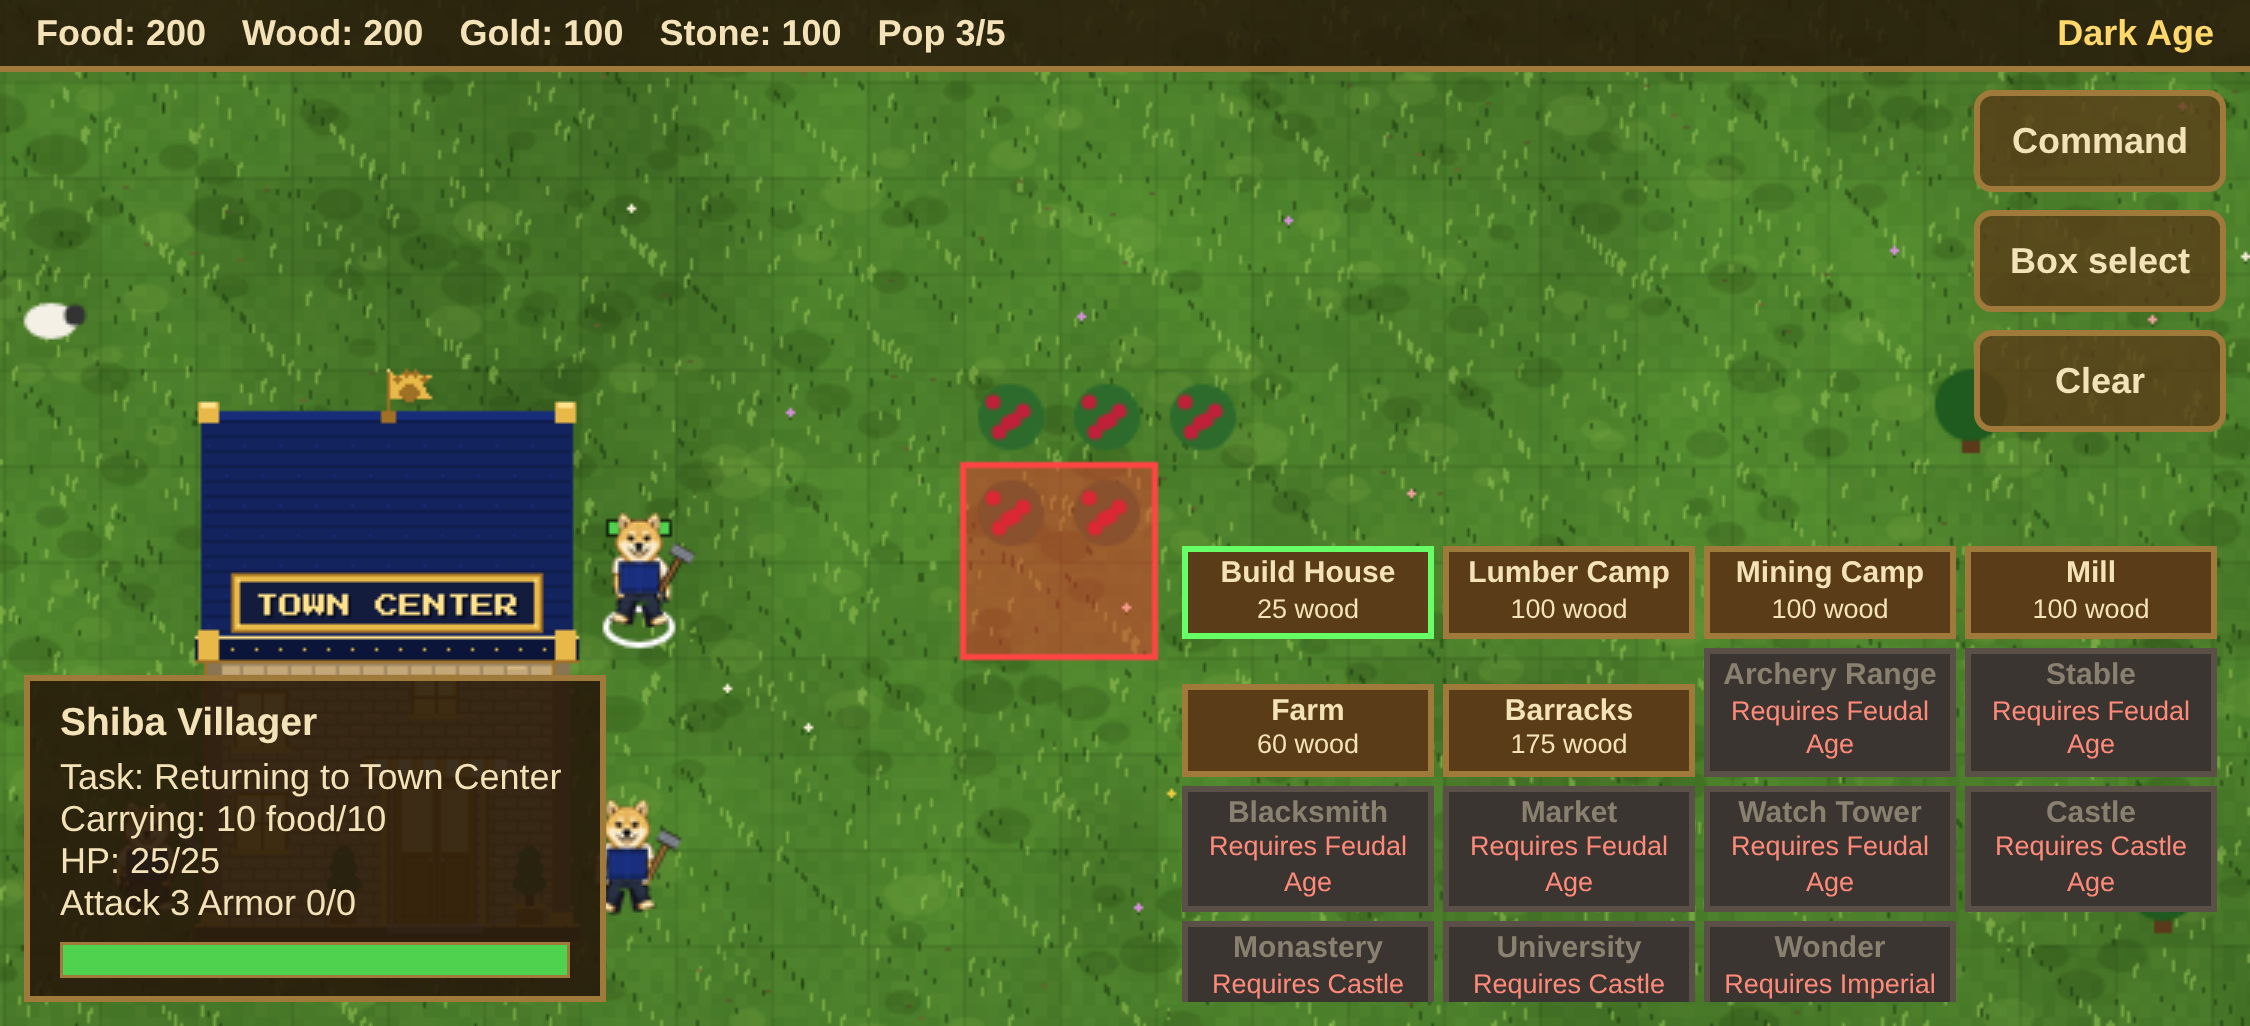
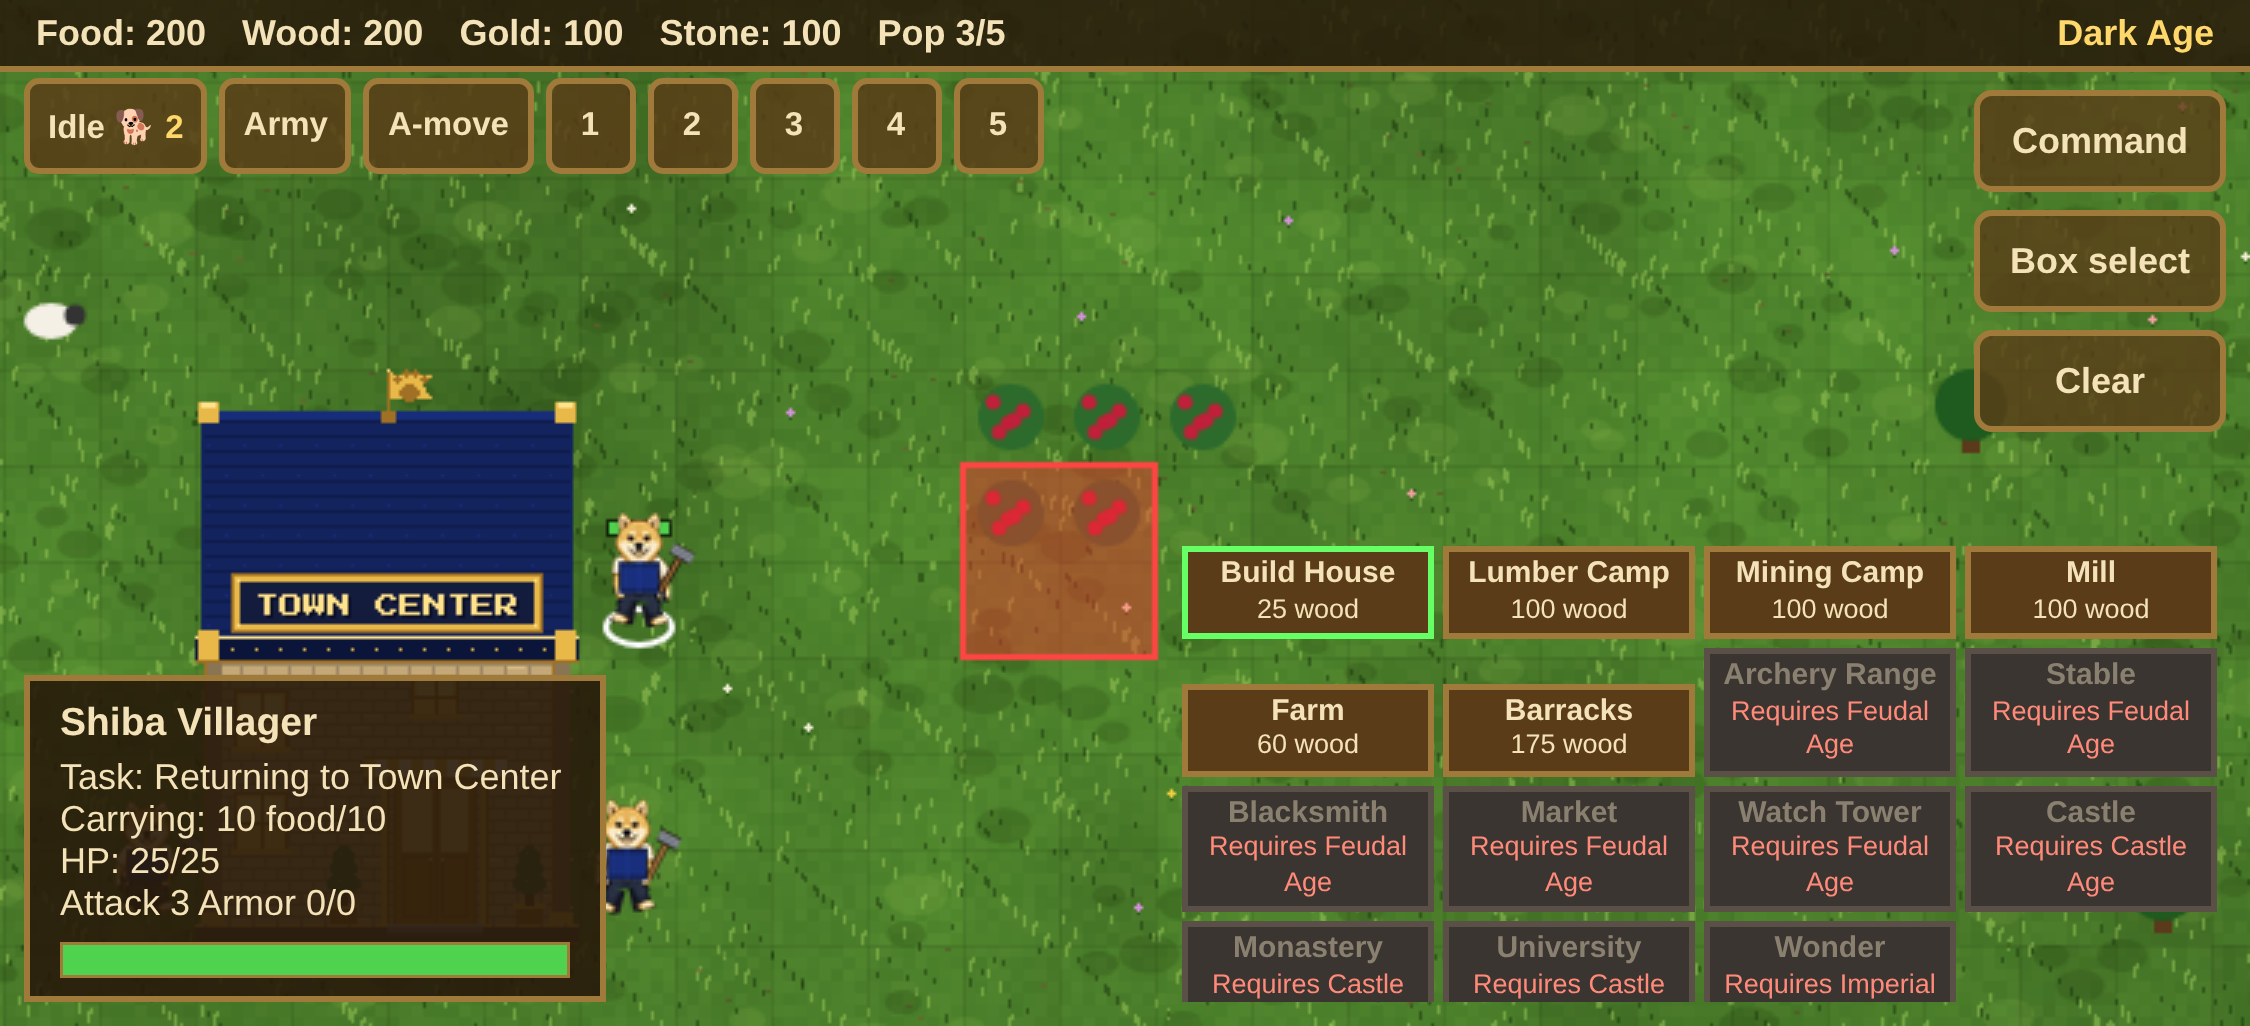
Unit handling: double-click/tap selects same type on screen, idle-villager cycle (count), all-army, control groups (Ctrl+1-9 / 1-9; touch slots long-press save, tap recall), formation moves at slowest member's speed, smart drop-off, attack-move (Q / A-move), shift-queue waypoints; all via the lockst

Changed region(s): [[0.0, 0.0624, 0.4667, 0.1871]]

diff --git a/src/main.js b/src/main.js
@@ -17,7 +17,11 @@ let mouse = { x: -1, y: -1, inside: false }, drag = null;
 let Z = 1; // touch pinch zoom: the canvas backing store is viewport/Z and CSS-stretched to the viewport (desktop Z=1: unchanged)
 function resize() { canvas.width = Math.round(innerWidth / Z); canvas.height = Math.round(innerHeight / Z); canvas.style.width = innerWidth + 'px'; canvas.style.height = innerHeight + 'px'; if (world) clampCamera(cam, canvas.width, canvas.height, world); } resize(); addEventListener('resize', resize);
 addEventListener('blur', () => { keys.clear(); drag = null; });   // no stuck pan keys after alt-tab
-addEventListener('keydown', e => { if (e.target.tagName === 'INPUT') return; keys.add(e.key.toLowerCase()); if (e.key === 'Escape') cancelPlacing(ui); });
+addEventListener('keydown', e => { if (e.target.tagName === 'INPUT') return;
+  if (world && /^Digit[1-9]$/.test(e.code)) { const n = +e.code.slice(5); if (e.ctrlKey || e.metaKey) { e.preventDefault(); saveGroup(n); } else recallGroup(n); return; }
+  if (world && e.key.toLowerCase() === 'q') { qb.amove = !qb.amove; syncQb(); return; }
+  if (world && e.key === '.') { idleVillager(); return; } if (world && e.key === ',') { selectArmy(); return; }
+  keys.add(e.key.toLowerCase()); if (e.key === 'Escape') { cancelPlacing(ui); qb.amove = false; syncQb(); } });
 addEventListener('keyup', e => keys.delete(e.key.toLowerCase()));
 canvas.addEventListener('contextmenu', e => e.preventDefault());
 const toWorld = (sx, sy) => screenToWorld(sx / Z, sy / Z, cam);
@@ -47,19 +51,22 @@ canvas.addEventListener('mouseleave', () => { mouse.inside = false; drag = null;
 canvas.addEventListener('mousedown', e => {
   if (!world) return; const p = toWorld(e.clientX, e.clientY);
   if (e.button === 1) { drag = { x: e.clientX, y: e.clientY, cx: cam.x, cy: cam.y }; e.preventDefault(); return; }
+  if (e.button === 0 && qb.amove && !ui.placing) { rightClick(p.x, p.y, { queue: e.shiftKey }); qb.skipUp = true; return; }
   if (e.button === 0) { pointerDown(ui, e.clientX, e.clientY); return; }
-  if (e.button === 2) { if (ui.placing) { cancelPlacing(ui); return; } rightClick(p.x, p.y); }
+  if (e.button === 2) { if (ui.placing) { cancelPlacing(ui); return; } rightClick(p.x, p.y, { queue: e.shiftKey }); }
 });
-function rightClick(x, y) {
+function rightClick(x, y, mods = {}) {
+  const amove = qb.amove || !!mods.amove, queue = !!mods.queue; if (qb.amove) { qb.amove = false; syncQb(); }
   const b = selectedBuilding(world);
   if (b) { if (!isFoe(b) && b.trains.length && b.complete) { issue('rally', { id: b.id, x, y }); } return; }
   const us = selectedUnits(world); if (!us.length) return;
-  issue('order', { ids: us.map(u => u.id), x, y });
+  issue('order', { ids: us.map(u => u.id), x, y, ...(amove ? { amove: true } : {}), ...(queue ? { queue: true } : {}) });
   if (net) world.lastOrder = { kind: hoverEnemy() ? 'attack' : 'move', x, y, t: world.time };   // instant local feedback
 }
 addEventListener('mouseup', e => {
   if (e.button === 1) drag = null;
-  if (e.button === 0 && world) { const r = pointerUp(ui, world, toWorld, issue);
+  if (e.button === 0 && qb.skipUp) { qb.skipUp = false; return; }
+  if (e.button === 0 && world) { const r = pointerUp(ui, world, toWorld, issue); if (r && r.kind === 'select') dblSelect(e.clientX, e.clientY);
     const s = world.selection; // fog: cannot select what you cannot see
     if (r && r.kind === 'select' && s && (s.kind === 'unit' || s.kind === 'building')) { const o = s.kind === 'unit' ? SIM.mobile(world, s.id) : world.buildings.find(q => q.id === s.id); if (o && !seen(o)) { world.selection = null; world.selected = null; } } }
 });
@@ -97,14 +104,46 @@ const touchEnd = e => { e.preventDefault(); if (!world || !tp) return;
   if (g.done) return;
   if (ui.placing) { if (g.moved && Math.hypot(x - g.x, y - g.y) > 10) { mouse = { x, y, inside: false }; refreshGhost(); } pointerDown(ui, x, y); pointerUp(ui, world, toWorld, issue); return; }
   if (g.moved) return;
-  if (touchUi.command) { touchCommand(x, y); return; }
-  pointerDown(ui, x, y); const r = pointerUp(ui, world, toWorld, issue); const s = world.selection;
+ 
+  if (touchUi.command || qb.amove) { touchCommand(x, y); return; }
+  pointerDown(ui, x, y); const r = pointerUp(ui, world, toWorld, issue); if (r && r.kind === "select") dblSelect(x, y); const s = world.selection;
   if (r && r.kind === 'select' && s && (s.kind === 'unit' || s.kind === 'building')) { const o = s.kind === 'unit' ? SIM.mobile(world, s.id) : world.buildings.find(q => q.id === s.id); if (o && !seen(o)) { world.selection = null; world.selected = null; } }
 };
 canvas.addEventListener('touchend', touchEnd, { passive: false }); canvas.addEventListener('touchcancel', e => { clearTimeout(tp?.lp); tp = null; ui.press = null; ui.box = null; e.preventDefault(); }, { passive: false });
 for (const t of ['gesturestart', 'dblclick']) document.addEventListener(t, e => e.preventDefault());
 const orient = () => { document.documentElement.dataset.orient = innerWidth >= innerHeight ? 'landscape' : 'portrait'; scrollTo(0, 0); };
 addEventListener('resize', orient); addEventListener('orientationchange', () => setTimeout(() => { resize(); orient(); }, 100)); orient();
+// ---- quick selection: double-click/tap same type on screen, idle villager cycle, all army, control groups, attack-move ----
+const qb = { amove: false, skipUp: false, groups: {}, idleIdx: 0 }; let lastSel = { t: 0, type: null, id: null };
+const qbEl = $('quickbar');
+const onScreen = u => { const q = worldToScreen(u.x, u.y, cam); return q.x >= 0 && q.y >= 0 && q.x <= canvas.width && q.y <= canvas.height; };
+const mineU = () => world.units.filter(u => u.owner === viewer());
+function dblSelect(x, y) { const s = world.selection, now = performance.now();
+  if (!s || s.kind !== 'unit') { lastSel = { t: 0 }; return; } const u = SIM.mobile(world, s.id); if (!u || u.owner !== viewer()) return;
+  if (now - lastSel.t < 450 && lastSel.type === u.type) { SIM.selectUnits(world, mineU().filter(o => o.type === u.type && onScreen(o))); lastSel = { t: 0 }; }
+  else lastSel = { t: now, type: u.type, id: u.id }; }
+const centerOn = u => { cam.x = u.x * TILE - canvas.width / 2; cam.y = u.y * TILE - canvas.height / 2; clampCamera(cam, canvas.width, canvas.height, world); };
+function idleVillager() { const idle = mineU().filter(u => u.type === 'villager' && u.state === 'idle'); if (!idle.length) return;
+  const u = idle[qb.idleIdx++ % idle.length]; SIM.selectUnits(world, [u]); centerOn(u); }
+function selectArmy() { SIM.selectUnits(world, mineU().filter(u => u.type !== 'villager')); }
+function saveGroup(n) { const ids = selectedUnits(world).filter(u => u.owner === viewer()).map(u => u.id); qb.groups[n] = ids; world.message = { text: ids.length ? `Group ${n}: ${ids.length} units` : `Group ${n} cleared`, until: world.time + 1.5 }; syncQb(); }
+function recallGroup(n) { const ids = qb.groups[n] || []; const us = mineU().filter(u => ids.includes(u.id)); if (!us.length) return; qb.groups[n] = us.map(u => u.id);
+  const again = world.selection && world.selection.kind === 'units' && JSON.stringify(world.selection.ids) === JSON.stringify(qb.groups[n]);
+  SIM.selectUnits(world, us); if (again || us.length === 1 && world.selection.id === us[0].id && lastSel.grp === n) centerOn(us[0]); lastSel.grp = n; }
+function syncQb() { if (!world) return; const idle = mineU().filter(u => u.type === 'villager' && u.state === 'idle').length;
+  qbEl.querySelector('[data-q=idle]').innerHTML = `Idle 🐕 <b>${idle}</b>`; qbEl.querySelector('[data-q=idle]').classList.toggle('hot', idle > 0);
+  qbEl.querySelector('[data-q=amove]').classList.toggle('active', qb.amove);
+  for (const b of qbEl.querySelectorAll('[data-g]')) { const n = +b.dataset.g, c = (qb.groups[n] || []).length; b.innerHTML = c ? `${n}<small>${c}</small>` : `${n}`; b.classList.toggle('set', c > 0); }
+  if (window.game) window.game.qb = { amove: qb.amove, groups: { ...qb.groups } }; }
+let gPress = null;
+qbEl.addEventListener('pointerdown', e => { const b = e.target.closest('[data-g]'); if (!b) return; e.preventDefault();
+  gPress = { n: +b.dataset.g, long: false, t: setTimeout(() => { gPress.long = true; saveGroup(+b.dataset.g); navigator.vibrate?.(20); }, 500) }; });
+qbEl.addEventListener('pointerup', e => { if (!gPress) return; clearTimeout(gPress.t); if (!gPress.long) recallGroup(gPress.n); gPress = null; });
+qbEl.addEventListener('pointercancel', () => { if (gPress) clearTimeout(gPress.t); gPress = null; });
+let qbDown = null; qbEl.addEventListener('pointerdown', e => { qbDown = e.target.closest('[data-q]'); }, true);
+qbEl.addEventListener('click', e => { const b = e.target.closest('[data-q]'); if (!b || !world || b !== qbDown) return; qbDown = null; // ignore ghost clicks not started on this button const q = b.dataset.q;
+  if (q === 'idle') idleVillager(); else if (q === 'army') selectArmy(); else if (q === 'amove') { qb.amove = !qb.amove; } syncQb(); });
+setInterval(syncQb, 250);
 // ---- HUD / panels ----
 const bannerEl = $('banner'), hud = $('hud'), infoEl = $('info'), cmdEl = $('commands'), msgEl = $('msg'), netEl = $('net'), stallEl = $('stall'), desyncEl = $('desync');
 let lastCmd = '';
@@ -180,6 +219,7 @@ function startGame({ mp = false, seed = 1, me = 0, cfg = {}, session = null } = 
   const c = mp ? { x: tc.x + 2, y: tc.y + 2 } : { x: 34, y: 34 };
   cam.x = c.x * TILE - canvas.width / 2; cam.y = c.y * TILE - canvas.height / 2; clampCamera(cam, canvas.width, canvas.height, world);
   Object.assign(window.game, { world, cam, ui, mode: mp ? 'mp' : 'sp' });
+  document.body.classList.add('ingame');
   for (const id of ['menu', 'lobby', 'title-bg']) $(id).style.display = 'none';
   last = performance.now(); requestAnimationFrame(frame);
 }

diff --git a/src/sim.js b/src/sim.js
@@ -187,7 +187,7 @@ export function planTo(world, u, goals, grid = buildGrid(world), strict = false)
   return true;
 }
 export function moveAlong(u, dt) {
-  let s = u.speed * dt;
+  let s = (u.groupSpeed && u.state === 'moving' ? Math.min(u.speed, u.groupSpeed) : u.speed) * dt;
   while (u.path.length && s > 0) { const t = u.path[0], dx = t.x - u.x, dy = t.y - u.y, d = hyp(dx, dy);
     if (d <= s) { u.x = t.x; u.y = t.y; s -= d; u.path.shift(); } else { u.x += dx / d * s; u.y += dy / d * s; s = 0; } }
   return u.path.length === 0;
@@ -309,10 +309,10 @@ function planDrop(world, u) {
   const goals = dropsitesFor(world, u.carry.res).flatMap(b => ringTiles(b.x, b.y, b.size));
   return goals.length > 0 && planTo(world, u, goals);
 }
-function idle(u, note = null) { u.state = 'idle'; u.path = []; u.note = note; u.target = null; u.build = null; u.attack = null; u.nudge = false; }
+function idle(u, note = null) { u.groupSpeed = null; u.amove = false; u.state = 'idle'; u.path = []; u.note = note; u.target = null; u.build = null; u.attack = null; u.nudge = false; }
 export const idleUnit = idle;
 export function orderMove(world, u, x, y, tile = null) {
-  u.attack = null; u.nudge = false; u.target = null; u.build = null; u.note = null; u.dest = tile ? [...tile] : [Math.floor(x), Math.floor(y)];
+  u.groupSpeed = null; u.attack = null; u.nudge = false; u.target = null; u.build = null; u.note = null; u.dest = tile ? [...tile] : [Math.floor(x), Math.floor(y)];
   // try the target tile, then the closest walkable tiles around it (handles blocked/enclosed targets)
   const cands = tile ? [tile, ...nearestWalkable(world, tile[0], tile[1], 24).slice(1)] : nearestWalkable(world, Math.floor(x), Math.floor(y), 24);
   const grid = buildGrid(world);
@@ -336,6 +336,8 @@ export function orderMoveGroup(world, units, x, y) {
   for (const t of tiles) { if (!left.length) break; left.sort((a, b) => hyp(a.x - t[0], a.y - t[1]) - hyp(b.x - t[0], b.y - t[1]));
     if (orderMove(world, left.shift(), 0, 0, t)) ok++; }
   for (const u of left) idle(u, 'unreachable');
+  // formation moves at the speed of its slowest member
+  const slow = Math.min(...units.map(u => u.speed)); for (const u of units) if (u.state === 'moving') u.groupSpeed = slow;
   return ok;
 }
 // Never discards carried resources: on a type change with carry > 0 the villager first
@@ -370,6 +372,9 @@ export function commandAt(world, x, y) {
   const farmNode = tb && tb.type === 'farm' && tb.complete ? world.resources.find(n => n.farm === tb.id && n.amount > 0) : null;
   const n = farmNode || (tb ? null : findResourceAt(world, x, y));
   if (n && vills.length) { for (const u of vills) orderGather(world, u, n); moveOthers(); return 'gather'; }
+  if (tb && tb.complete && mine(world, tb) && tb.dropsite && vills.some(u => u.carry.amount > 0 && tb.accepts.includes(u.carry.res))) {
+    for (const u of vills) if (u.carry.amount > 0 && tb.accepts.includes(u.carry.res)) { u.attack = null; u.build = null; u.note = null; u.state = 'to_drop'; if (!planTo(world, u, ringTiles(tb.x, tb.y, tb.size))) idle(u, 'unreachable'); }
+    moveOthers(); return 'dropoff'; }
   if (tb && !tb.complete && vills.length) { for (const u of vills) orderBuild(world, u, tb); moveOthers(); return 'build'; }
   if (us.length === 1) orderMove(world, us[0], x, y); else orderMoveGroup(world, us, x, y);
   return 'move';
@@ -576,7 +581,12 @@ export function tick(world, dt) {
     switch (u.state) {
       case 'idle': break;
       case 'attacking': tickAttack(world, u, dt); break;
-      case 'moving': if (u.type === 'villager' ? moveAlong(u, dt) : stepWithStuckCheck(world, u, dt, () => replan(world, u))) { u.state = 'idle'; } break;
+      case 'moving': {
+        if (u.amove && world.tick % 5 === u.id % 5) { const foe = nearestFoe(world, u, 6); if (foe && orderAttack(world, u, foe, true)) { u.amove = false; break; } }
+        if (u.type === 'villager' ? moveAlong(u, dt) : stepWithStuckCheck(world, u, dt, () => replan(world, u))) {
+          const wp = u.waypoints && u.waypoints.shift(); const gs = u.groupSpeed;
+          if (wp) { orderMove(world, u, wp.x, wp.y); u.groupSpeed = gs; u.amove = wp.amove && u.type !== 'villager'; } else { u.state = 'idle'; u.groupSpeed = null; u.amove = false; } }
+        break; }
       case 'to_resource': case 'gathering': {
         let node = world.resources.find(n => n.id === u.target);
         if (!node || node.amount <= 0) {
@@ -710,7 +720,11 @@ export function applyCommand(world, cmd) {
     switch (cmd.type) {
       case 'order': { if (!finite(a.x, a.y)) return null; const ids = ownUnits(world, a.ids).map(u => u.id); if (!ids.length) return null;
         const sel = world.selection, sid = world.selected; world.selection = { kind: 'units', ids };
-        try { return commandAt(world, a.x, a.y); } finally { world.selection = sel; world.selected = sid; } }
+        if (a.queue) { const us = ownUnits(world, ids).filter(u => u.state === 'moving' && u.path.length); // shift-queue waypoint behind a current move
+          if (us.length === ids.length) { for (const u of us) (u.waypoints ||= []).push({ x: a.x, y: a.y, amove: !!a.amove }); return 'queue'; } }
+        let r; try { r = commandAt(world, a.x, a.y); } finally { world.selection = sel; world.selected = sid; }
+        for (const u of ownUnits(world, ids)) { u.waypoints = []; if (a.amove && r === 'move' && u.state === 'moving' && u.type !== 'villager') u.amove = true; }
+        return a.amove && r === 'move' ? 'amove' : r; }
       case 'rally': { const b = ownBuilding(world, a.id); if (!b || !b.trains.length || !b.complete || !finite(a.x, a.y)) return null; b.rally = { x: a.x, y: a.y }; return 'rally'; }
       case 'build': { if (!BUILDING_DEFS[a.type] || BUILDING_DEFS[a.type].menu === false || !Number.isInteger(a.tx) || !Number.isInteger(a.ty)) return null;
         return placeBuilding(world, a.type, a.tx, a.ty, ownUnits(world, a.ids).filter(u => u.type === 'villager')); }
@@ -748,3 +762,9 @@ export function stateHash(world) {
   for (const p of world.projectiles || []) { num(p.x); num(p.y); num(p.dmg); }
   return h.toString(16).padStart(8, '0');
 }
+
+// nearest visible-or-not enemy unit/building within r tiles (deterministic: ties by id order of the arrays)
+function nearestFoe(world, u, r) { let best = null, bd = r;
+  for (const o of world.units) if (o.owner && o.owner !== u.owner && o.hp > 0) { const d = hyp(o.x - u.x, o.y - u.y); if (d < bd) { bd = d; best = o; } }
+  if (!best) for (const b of world.buildings) if (b.owner && b.owner !== u.owner) { const d = hyp(b.x + b.size / 2 - u.x, b.y + b.size / 2 - u.y); if (d < bd) { bd = d; best = b; } }
+  return best; }

diff --git a/index.html b/index.html
@@ -64,8 +64,13 @@ html,body{position:fixed;inset:0;overscroll-behavior:none}
  .screen{justify-content:flex-start;overflow-y:auto;padding:8px 0}#menu{padding-left:max(5vw,env(safe-area-inset-left))}.screen .panel{gap:6px;padding:10px 20px}
  .screen h1{font-size:34px!important}.screen button{padding:6px 18px;font-size:14px}.screen .hint{font-size:11px}#lobby-code{font-size:30px}.pl{min-width:300px}
 }
+#quickbar{position:fixed;top:36px;left:50%;transform:translateX(-50%);display:none;gap:4px;z-index:4}
+body.ingame #quickbar{display:flex}
+#quickbar button{font:bold 12px sans-serif;min-height:30px;padding:3px 8px;background:#5a3c18d8;color:#f4e2b8;border:2px solid #a07a3a;border-radius:5px;cursor:pointer;touch-action:manipulation;-webkit-user-select:none;user-select:none}
+#quickbar button.active{background:#7a1c1c;border-color:#f66}#quickbar button.hot b{color:#ffd86b}#quickbar .grp{min-width:30px;padding:3px 5px}#quickbar .grp.set{border-color:#6f6}#quickbar small{font-size:9px;margin-left:2px;color:#9f9}
+@media (max-height:520px){#quickbar{top:calc(26px + env(safe-area-inset-top));left:max(8px,env(safe-area-inset-left));transform:none}#quickbar button{min-height:32px;font-size:11px;padding:2px 6px}#msg{top:64px}}
 </style>
-</head><body><div id="hud"></div><div id="msg"></div><div id="banner"></div><div id="info"></div><div id="commands"></div><div id="net"></div><div id="stall"></div><div id="desync"></div><canvas id="game"></canvas><div id="touchbar"><button data-t="command">Command</button><button data-t="box">Box select</button><button data-t="cancel">Clear</button></div><div id="rotate">Rotate for best play ⟳</div><canvas id="title-bg"></canvas>
+</head><body><div id="hud"></div><div id="msg"></div><div id="banner"></div><div id="info"></div><div id="commands"></div><div id="net"></div><div id="stall"></div><div id="desync"></div><canvas id="game"></canvas><div id="touchbar"><button data-t="command">Command</button><button data-t="box">Box select</button><button data-t="cancel">Clear</button></div><div id="quickbar"><button data-q="idle" title="Idle villager (.)">Idle 🐕 0</button><button data-q="army" title="All army (,)">Army</button><button data-q="amove" title="Attack-move (Q): next order attacks on the way">A-move</button><button data-g="1" class="grp" title="Group 1: Ctrl+1 save, 1 recall; touch: long-press save, tap recall">1</button><button data-g="2" class="grp" title="Group 2: Ctrl+2 save, 2 recall; touch: long-press save, tap recall">2</button><button data-g="3" class="grp" title="Group 3: Ctrl+3 save, 3 recall; touch: long-press save, tap recall">3</button><button data-g="4" class="grp" title="Group 4: Ctrl+4 save, 4 recall; touch: long-press save, tap recall">4</button><button data-g="5" class="grp" title="Group 5: Ctrl+5 save, 5 recall; touch: long-press save, tap recall">5</button></div><div id="rotate">Rotate for best play ⟳</div><canvas id="title-bg"></canvas>
 <div id="menu" class="screen"><div class="panel"><h1>Inu Empires</h1><div class="tag">Rise of the Shiba Clans</div>
  <button id="btn-sp">Single Player</button>
  <div class="row"><label for="transport">Online via</label><select id="transport"><option value="tabs">Same browser (two tabs)</option><option value="relay">Relay server (WebSocket)</option></select></div>
